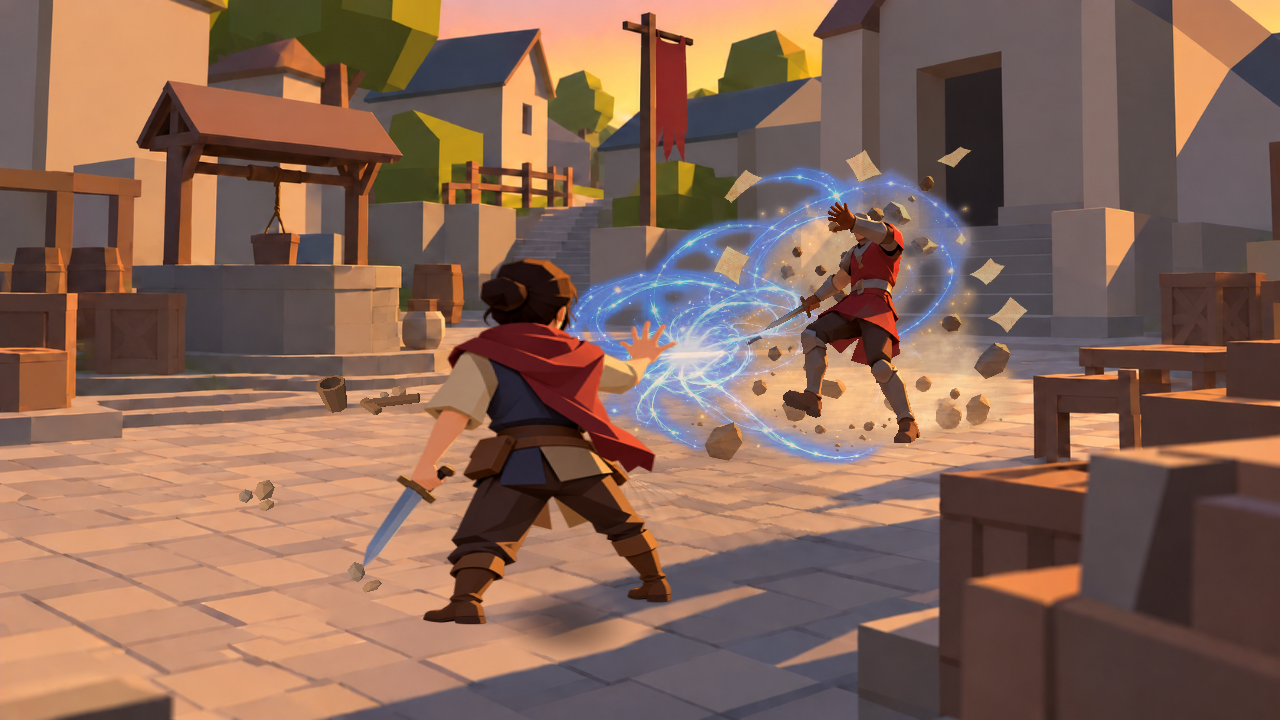
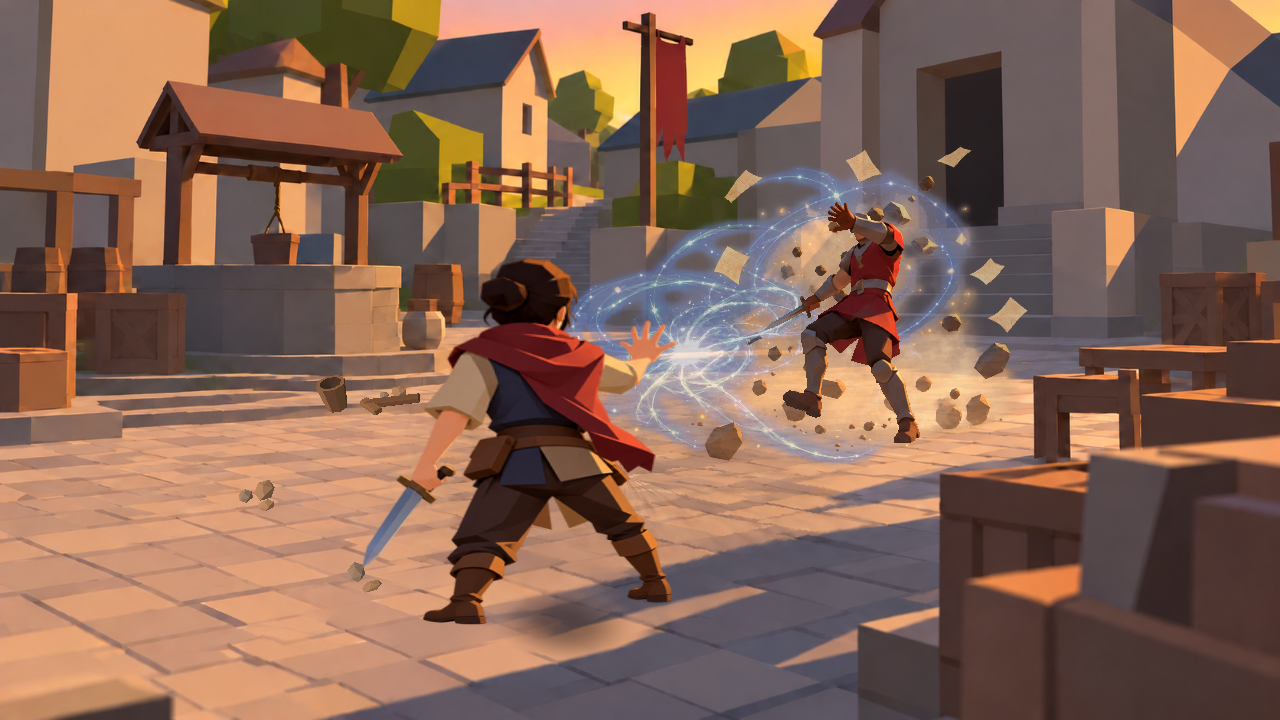
Separate arena magic into controllable visual passes

Changed region(s): [[0.4375, 0.2139, 0.7188, 0.6417], [0.6875, 0.275, 0.75, 0.4583]]

diff --git a/PLAN.md b/PLAN.md
@@ -20,7 +20,7 @@ The project already has a player controller and earlier gameplay code. The visua
 | --- | --- | --- |
 | Done | Cleaned background plate | Image edit of the annotated reference; removes the drawn oval, red note, HUD, and foreground protagonist. Saved as `game/art/village_backdrop.png`. |
 | Done | Clean duel plate and static opponent | `game/art/village_duel_clean.png` has no combat magic or character. `game/art/opponent_static.png` remains a separate 3D pose. The earlier plate with baked magic remains only as a reference asset. |
-| In review | Independent static magic | `game/art/duel_magic_layer.png` holds the energy, dust, airborne stones, and papers on transparency. The [composed](docs/visual-progress/arena-layers-composed.png) and [clean](docs/visual-progress/arena-layers-clean.png) captures show that it can be removed without exposing painted magic in the floor or village. |
+| In review | Independent static magic | `game/art/duel_magic_layer.png` holds the effect on transparency. Three separately controlled shader passes draw atmosphere, opaque fragments with papers, and cool energy. The [composed](docs/visual-progress/arena-layers-composed.png) and [clean](docs/visual-progress/arena-layers-clean.png) captures show that all magic can be removed without exposing painted effects in the floor or village. The masks are approximate and are not yet independent motion assets. |
 | Done | Duel arena and boundary | `game/art/arena_paving.glb` covers the duel floor with fixed-view paving color. An invisible 3D collision ring contains the protagonist and future 3D combatants. |
 | In review | Protagonist | The approved raised-hand pose remains the rear idle view. Matching front and side poses and two strides per direction appear in the [idle capture](docs/visual-progress/protagonist-motion-idle.png) and [walk capture](docs/visual-progress/protagonist-motion-walk.png). The earlier 3D model remains in the playable prototype. |
 | In review | Foot contact and framing | The illustrated poses share a foot baseline and contact shadow. The revised spawn allows movement toward the center and directly to the right. A real-input route reached the center, approached the opponent, stopped at the wall, and returned without leaving the frame. Close overlap with the fixed opponent pose, limited walk frames, and the static background perspective still need player review. |
@@ -28,9 +28,9 @@ The project already has a player controller and earlier gameplay code. The visua
 
 The completed arena rows describe a functional visual baseline, not final asset approval. Before gameplay mechanics, produce and visually review these remaining assets in order:
 
-1. **Shaded 3D paving (in review).** The arena uses shallow 3D relief, a sharp UV color texture derived from the clean duel plate, and restrained scene-light contribution. The UV floor now supplies the central color; only its rim fades into the static village. The [clean capture](docs/visual-progress/arena-layers-clean.png) shows no baked magic under the floor. The depth is still subtle and needs a separate visual refinement before accepting this gate.
+1. **Shaded 3D paving (in review).** The arena uses shallow 3D relief, a sharp UV color texture derived from the clean duel plate, and restrained scene-light contribution. The UV floor now supplies the central color; only its rim fades into the static village. The [clean capture](docs/visual-progress/arena-layers-clean.png) shows no baked magic under the floor. The source plate still contains paving pixels beneath the 3D mesh, so the central floor is visually replaced but is not yet removed from the background asset as requested in [#13](https://github.com/viniciuspassos/rpg/issues/13). The depth is also subtle; both gaps need a separate visual refinement before accepting this gate.
 2. **Arena-edge details (in review).** A small GLB now places faceted stones, broken timber, and a wooden bucket on empty painted paving beyond the left arena boundary. Existing static foreground props cover the right side, so a candidate right-hand cluster was removed after it appeared in front of a painted crate. The [spawn capture](docs/visual-progress/arena-edge-spawn.png) and [left-limit capture](docs/visual-progress/arena-edge-left.png) show no duplicate object or hidden combatant. A real-input route still reached the center and both barriers; the new details have no collision and do not narrow it. Review their scale and color before accepting this visual gate.
-3. **Independent magic assets.** The combat effect is now one static transparent layer over a clean plate and UV floor. Split the glow, dust, papers, and debris that need individual motion into restrained 2D/3D layers. Gate: the effect reads at spawn and across the arena without duplicate baked elements or loss of character visibility. This is visual asset work, not ability gameplay.
+3. **Independent magic assets (in review).** The clean plate and UV floor have no painted effect. Three shader passes from one transparent source now control warm atmosphere, opaque fragments with papers, and cool energy separately; the energy is less saturated in the fixed-view composite. Isolated captures show that the masks still mix some dust with fragments and retain blue haze around the energy. Produce cleaner separate glow, dust, paper, and debris assets to meet [#16](https://github.com/viniciuspassos/rpg/issues/16) before independent motion. Gate: the effect reads at spawn and across the arena without duplicate baked elements or loss of character visibility. This is visual asset work, not ability gameplay.
 4. **Two-combatant presentation pack.** Choose one consistent illustrated-sprite or stylized-3D approach for the protagonist and opponent. Complete the poses and supporting assets needed for readable idle, movement, attack, impact, and Power presentation, replacing the opponent's single fixed pose. Gate: both silhouettes remain clear at close range, hold their ground contact, and match the reference across the walkable area. No villagers, visitor, or companion assets belong to this scene.
 
 Keep generation scripts, Blender working files, and temporary renders local and unversioned. Version only approved game-ready assets, engine files needed to load them, and selected in-game captures. Start gameplay mechanics after these four visual gates pass or a remaining gap is explicitly accepted here.
@@ -38,6 +38,8 @@ Keep generation scripts, Blender working files, and temporary renders local and 
 The paving relief and albedo were derived from the project's own clean village plate; no third-party asset was added. The original plate was produced with the built-in image generation edit tool from the user's local annotated reference. Its prompt was: preserve the exact village composition, architecture, people, magic, light and paving; remove the black oval, red note, foreground protagonist and HUD; reconstruct exposed paving; add no text or new objects. The first duel edit removed the three bystanders; a later pass separated the opponent into a transparent layer over the empty duel plate. The illustrated protagonist was generated from the same local reference as a transparent foreground cutout. The original reference is local and ignored by Git; the selected game-ready images are versioned under `game/art/`. Experimental production files remain local and unversioned.
 
 The edge-detail GLB was modeled locally without third-party assets. The clean duel plate and transparent magic layer were edited with the built-in image generation tool using the existing duel and clean village plates as references; their production inputs remain unversioned.
+
+The stones visible to the left in the clean capture are geometry from `arena_edge_details.glb`, not pixels baked into the clean plate or floor texture. The current three-pass magic composite was reviewed in Godot Compatibility at 1280×720; the clean and composed images use the same camera and actor pose.
 
 ## Production sequence and review gates
 

diff --git a/README.md b/README.md
@@ -13,7 +13,7 @@ The first configured export target is macOS. Install the matching Godot export t
 ## Current v0
 
 - The current visual scene is a fixed-camera duel with only the protagonist and opponent visible. It combines a reference-derived backdrop, a small 3D floor, the existing movement controller, and illustrated poses for idle and walking.
-- The village background is `game/art/village_duel_clean.png`; magic is a separate transparent layer in `game/art/duel_magic_layer.png`, and the opponent is a separate static image in `game/art/opponent_static.png`. The earlier playable episode in `game/main.tscn` still contains its original cast and gameplay.
+- The village background is `game/art/village_duel_clean.png`; the transparent magic source `game/art/duel_magic_layer.png` is shown through three separately controlled shader passes, and the opponent is a separate static image in `game/art/opponent_static.png`. The earlier playable episode in `game/main.tscn` still contains its original cast and gameplay.
 - The visual scene uses `game/art/protagonist_motion.png`, including the approved raised-hand pose at rest and directional walk frames. The earlier playable episode still uses `game/art/protagonist.glb`. Production files stay local and unversioned under `source_assets/`; selected in-game captures are in `docs/visual-progress/`.
 - Combat, quest flow, and localization are deferred until the visual scene is accepted.
 
